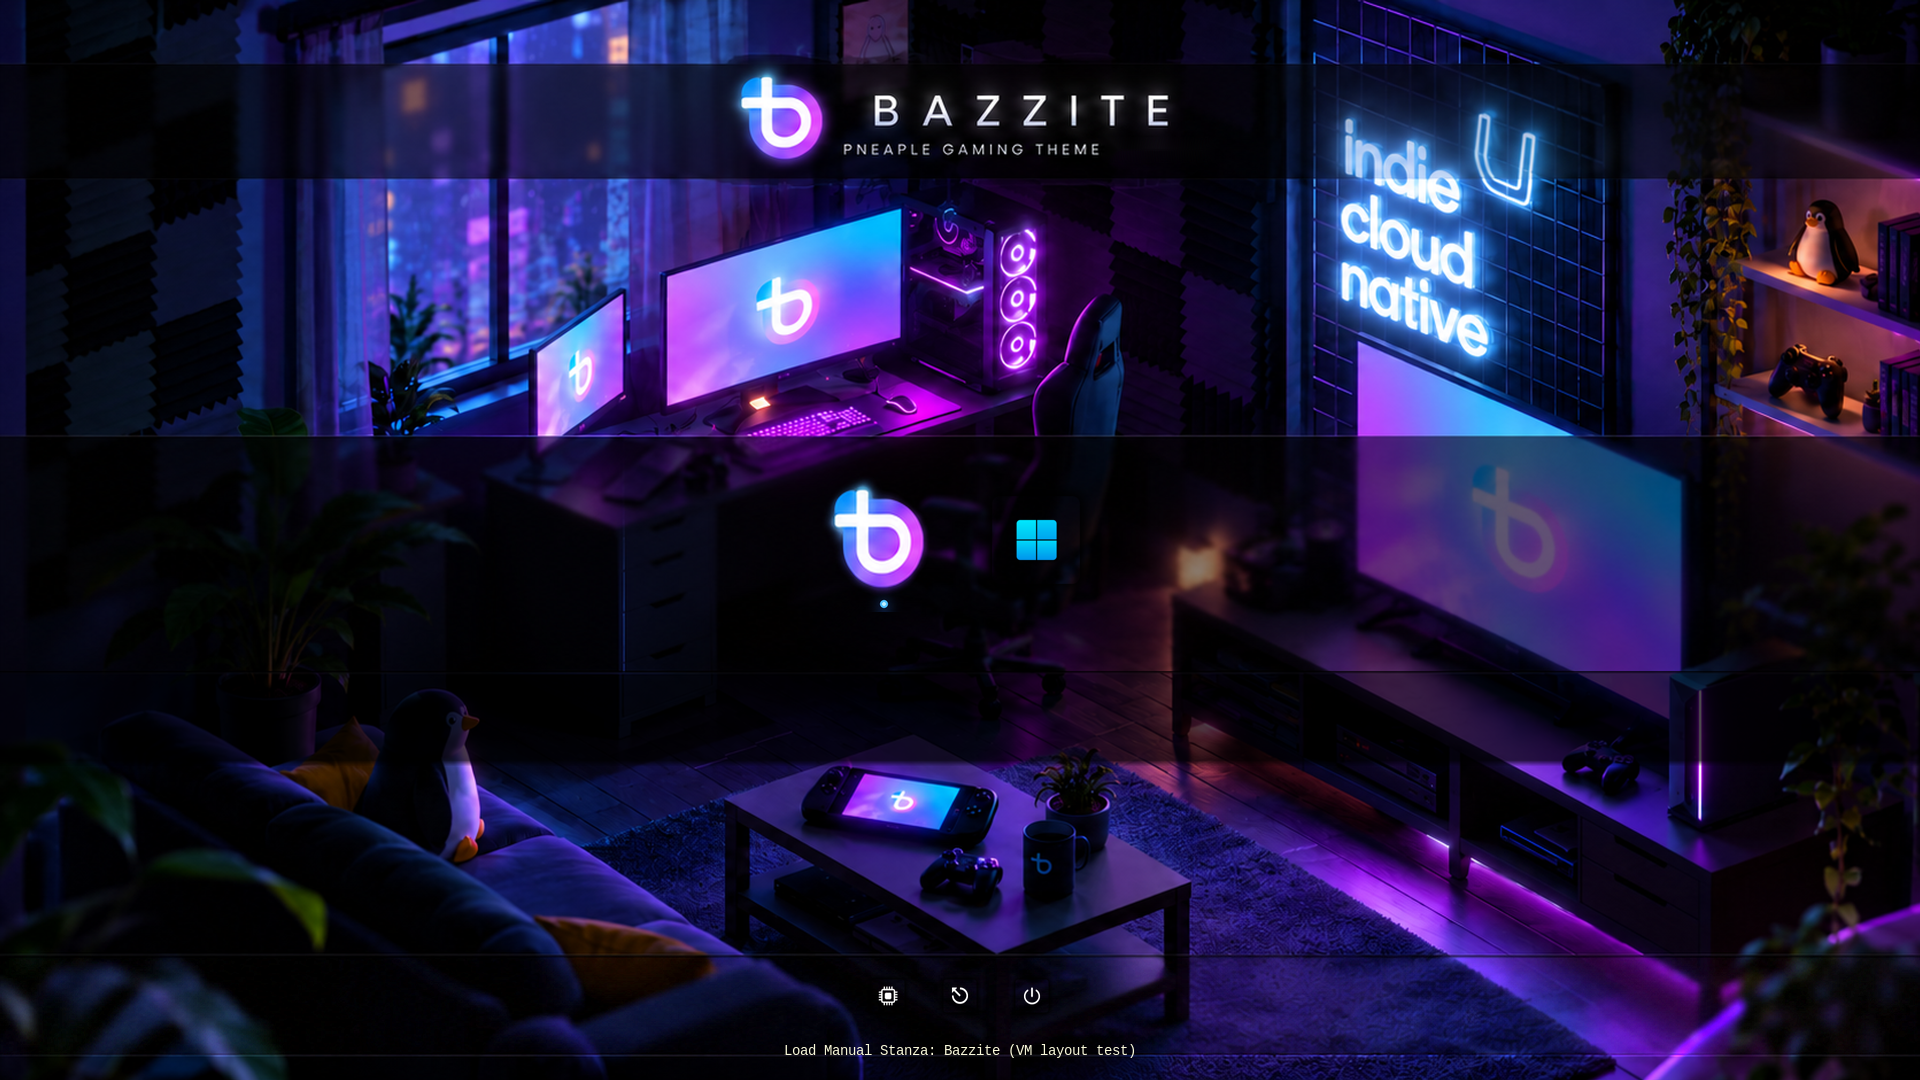
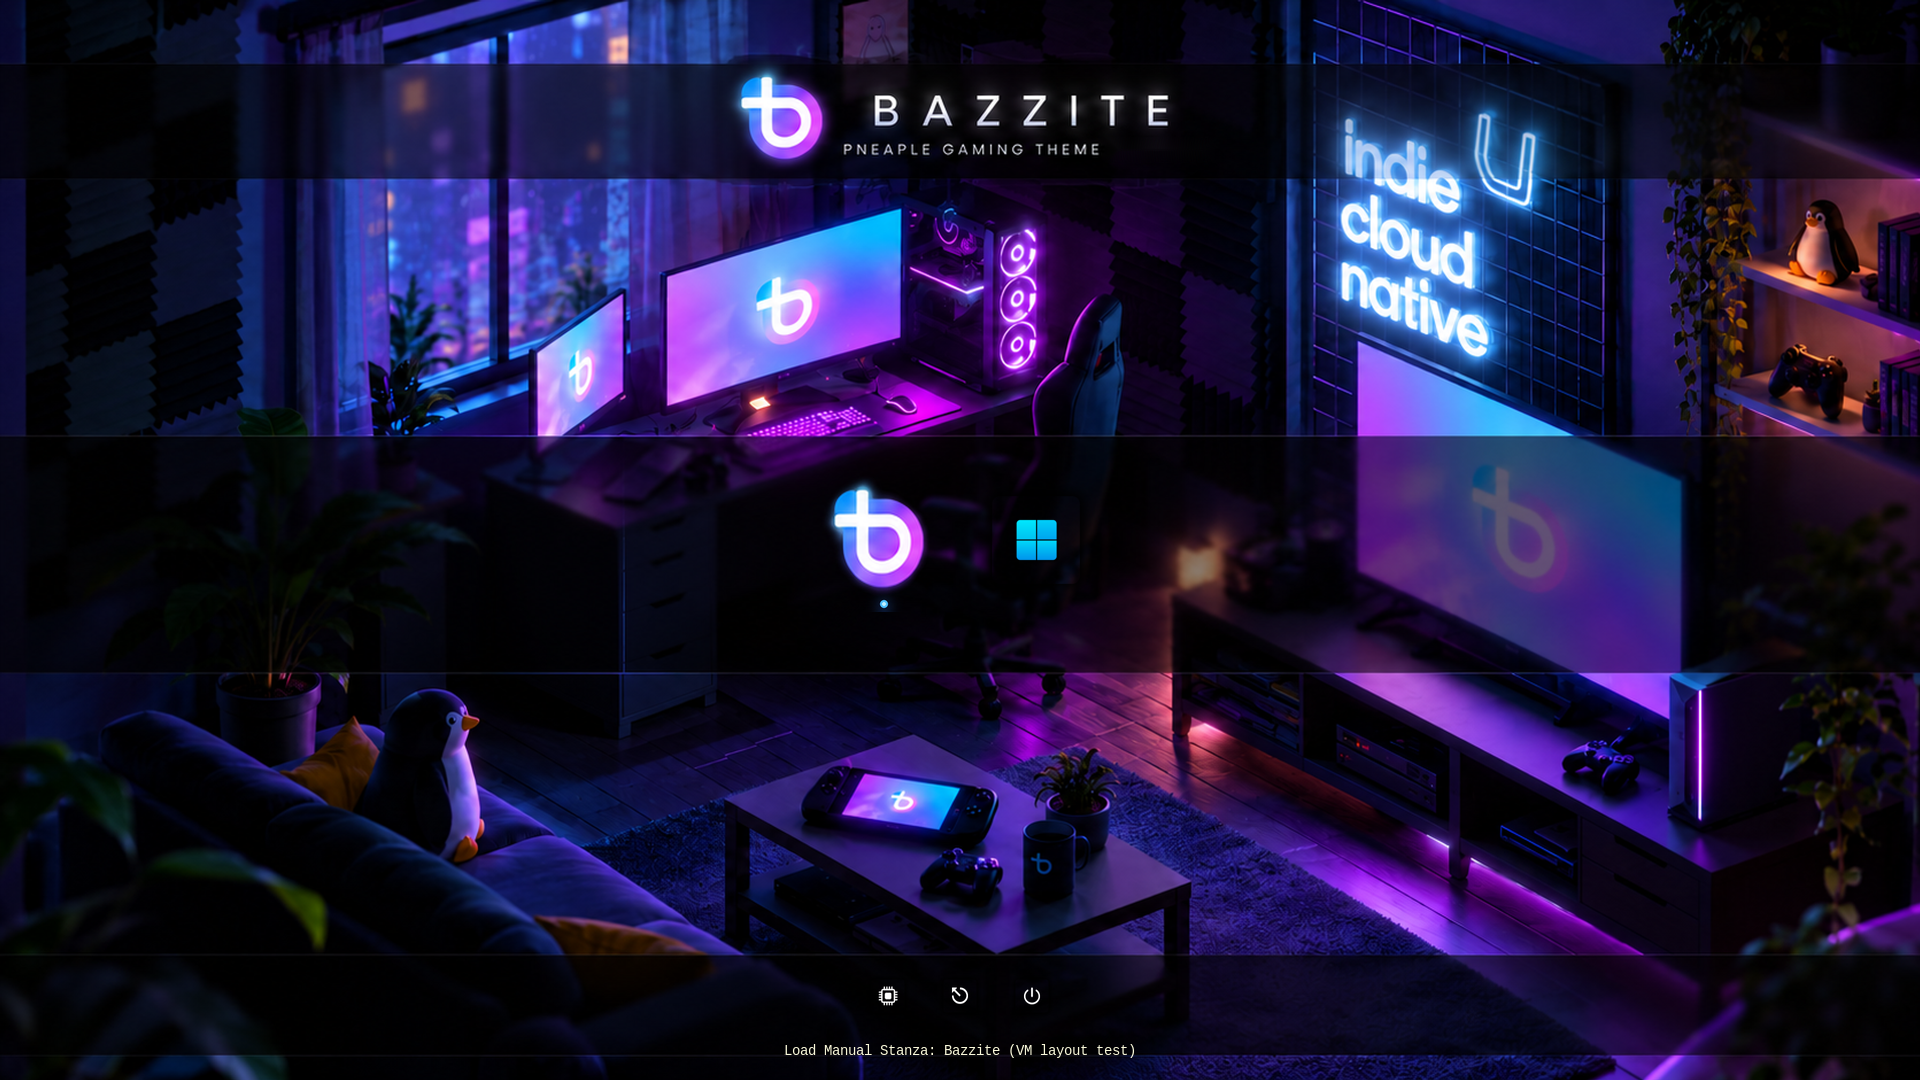
Restore narrow center band and bottom bar from original artwork

diff --git a/ATTRIBUTION.md b/ATTRIBUTION.md
@@ -14,7 +14,7 @@ The rEFInd icon collection is sourced from [chris1111/Shadow-rEFInd](https://git
 ## Bazzite Convergence wallpaper and derived design
 
 - **Official source:** [Convergence_Wallpaper.png in Bazzite's press kit](https://github.com/ublue-os/bazzite/blob/main/press_kit/art/Convergence_Wallpaper.png); related Bazzite wallpapers are also collected in the [Universal Blue artwork repository](https://github.com/ublue-os/artwork/tree/main/wallpapers/bazzite/images).
-- **Adaptation:** `background.png` incorporates and recomposes the Convergence gaming-room illustration as a 4K boot-menu wallpaper, with translucent header/menu/footer bands and the final “PNEAPLE GAMING THEME” heading. The central menu band has been extended downward to sit behind rEFInd's utility row; the footer band remains unchanged. This is **not** the original unmodified official wallpaper.
+- **Adaptation:** `background.png` incorporates and recomposes the Convergence gaming-room illustration as a 4K boot-menu wallpaper, with translucent header/menu/footer bands and the final “PNEAPLE GAMING THEME” heading. This adaptation restores the narrower central menu band and dark footer band from source-theme commit `13644ec`. This is **not** the original unmodified official wallpaper.
 - **Supporting source files:** PNGs under `source/` are historic/generated assets and prior visual composition inputs; none are necessary on the EFI System Partition.
 - **Screenshots:** `screenshots/concept-preview.png` is a design mockup; `screenshots/preview.png` is a real rEFInd screenshot from **QEMU/OVMF**, not actual physical UEFI.
 - **Licensing:** the [Universal Blue artwork repository](https://github.com/ublue-os/artwork) declares Apache-2.0 at the repository level but expressly warns that **individual wallpapers may have different licenses**. The file-specific Convergence license and permission to publish this particular derivative are **not independently verified**. The theme's MIT license and attribution do not grant such permissions; seek a decision from the rights holder before a release that assumes they do.
@@ -35,7 +35,7 @@ See the project [README](README.md) for safe installation and QEMU-versus-hardwa
 ## RefindPlus adaptation
 
 Based on zany130/rEFInd-bazzite-pneaple at `a973082` (history retained).
-The wallpaper, icons and selection graphics are unchanged by this adaptation.
+The wallpaper is restored byte-for-byte from source-theme commit `13644ecef6224422c733ef7d8456c68995ae6d86`. The middle band was extended in `da5f844` and the footer removed in `3b8531d`; this restoration only replaces the wallpaper. Icons and selection graphics retain their current versions.
 The new configuration places the real tools row near the bottom using the
 experimental `tool_row_tune` feature in zany130/RefindPlus, commit
 `31cee4c00c2b98ce731e79bb635934884fe20ec9`. New screenshots named

diff --git a/README.md b/README.md
@@ -1,6 +1,6 @@
 # RefindPlus Bazzite Pneaple
 
-A separate RefindPlus adaptation of [rEFInd Bazzite Pneaple](https://github.com/zany130/rEFInd-bazzite-pneaple), with the real EFI tools row positioned near the bottom, inspired by the original concept. The existing 4K wallpaper, Shadow icons and glowing-dot selection graphics are unchanged.
+A separate RefindPlus adaptation of [rEFInd Bazzite Pneaple](https://github.com/zany130/rEFInd-bazzite-pneaple), with the real EFI tools row positioned near the bottom, inspired by the original concept. The 4K wallpaper is restored from source-theme commit `13644ec`, bringing back the narrower middle band and dark bottom band. The current Shadow icons and glowing-dot selection graphics are retained.
 
 **Requires the experimental `tool_row_tune` build:** [zany130/RefindPlus, feature/tool-row-tune](https://github.com/zany130/RefindPlus/tree/feature/tool-row-tune), tested commit `31cee4c00c2b98ce731e79bb635934884fe20ec9`. [Release/debug build artifacts](https://github.com/zany130/RefindPlus/actions/runs/38934290203). Stock rEFInd and RefindPlus builds without that feature cannot move the tools this way. This theme does not include an EFI binary.
 
@@ -16,7 +16,7 @@ The screenshot uses labeled Bazzite/Windows **VM layout placeholders**, not inst
 - Explicit 1080p sizes with `scale_ui 99` avoid RefindPlus's automatic HiDPI enlargement. The optional 4K profile doubles the icon sizes.
 - A separate example enables the three real tools. The theme itself does not change boot entries, scanning, tools, loaders, timeout, Secure Boot or firmware settings.
 
-RefindPlus displays **one selected-item label**, including when an OS entry is selected. That shared label follows the tools to the bottom. Independent captions below every icon, as drawn in the concept, are not supported by this feature. The source wallpaper's extended middle band is retained; this adaptation changes menu positioning rather than repainting the artwork.
+RefindPlus displays **one selected-item label**, including when an OS entry is selected. That shared label follows the tools to the bottom. Independent captions below every icon, as drawn in the concept, are not supported by this feature. The narrower middle band and bottom band are restored byte-for-byte from the earlier artwork; the tools now sit over the restored bottom band.
 
 ## Try it on Bazzite without changing your boot installation
 

diff --git a/TESTING.md b/TESTING.md
@@ -10,7 +10,7 @@ Binary SHA-256: `c973b6a92ee93871be3818cfecd04b16801bf0e27f0f55959c81b9ddd683f06
 - Real Firmware, Reboot and Shutdown entries rendered at the bottom with `tool_row_tune -10000`.
 - Keyboard Down changes selection from an OS placeholder to Firmware. The glowing-dot indicator and shared label render at the moved tools row.
 - A second VM run with `tool_row_tune 0` restores the normal tools position below the OS icons. Pixel comparison of the entire area above the original tools row (y < 628 at 1080p) is identical between the baseline and moved layout. Wallpaper and OS-row placement are unchanged.
-- All existing wallpaper, icon and selection PNGs match the source theme byte-for-byte. PNG decoding and configured asset paths were checked; `git diff --check` passed.
+- The wallpaper matches source-theme commit `13644ec` byte-for-byte; icons and selection PNGs retain their current versions. PNG decoding and configured asset paths were checked; `git diff --check` passed.
 - Preview script syntax and command-line interface checked. Captures validate the framebuffer dimensions.
 
 The test OS entries are clearly labeled placeholders using copies of the boot manager for layout only. They were not launched. No real host disks were attached; tools were selected but firmware/reboot/shutdown actions were not executed.
